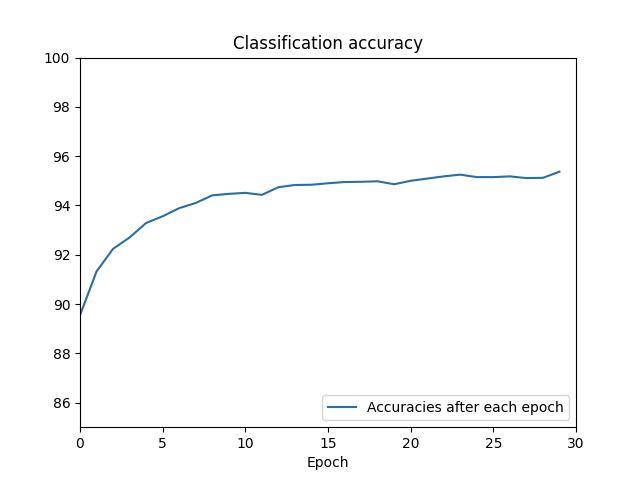
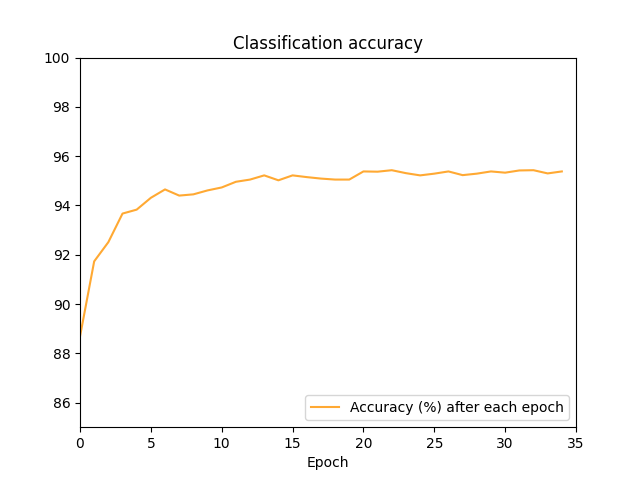
Centralise all hyperparameters toggling to hyperparameters.py, run, test and save networks with new hyperparameters

diff --git a/visualisation/network2/observe_early_stopping/early_stop.py b/visualisation/network2/observe_early_stopping/early_stop.py
@@ -13,26 +13,34 @@ import random
 import sys
 
 # My library
-sys.path.append('../../') # required if run_and_plot_network() were run in this script
+sys.path.append('../../../') # required if run_and_plot_network() were run in this script
 import mnist_loader
 import network_2
+from hyperparams import NUM_EPOCHS, LEARNING_RATE, LAYERS, REG_PARAM, MINI_BATCH_SIZE, EARLY_STOPPING
 
 # Third-party libraries
 import matplotlib.pyplot as plt
 import numpy as np
 
-# Constants
+
+# Customize Hyperparameters
+# By default, uses the values specified in the root folder hyperparams.py
 # Note you may wish to toggle display settings/scale
 # on the y-axis should the results go out of range
-NUM_EPOCHS = 30
-LEARNING_RATE = 0.5
-HIDDEN_LAYER = [30] # list of layers
-REG_PARAM = 5.0
-MINI_BATCH_SIZE = 10
+
+##NUM_EPOCHS = 30
+##LEARNING_RATE = 0.4
+## HIDDEN_LAYER = [30]
+##LAYERS = [784] + HIDDEN_LAYER + [10] # list of layers
+##REG_PARAM = 5.0
+##MINI_BATCH_SIZE = 10
+####EARLY_STOPPING = 5
+
+# To scale the accuracy to 100%
 PLOT_SCALE_FACTOR = None # equals to size of validation data
 
                        
-def plot_network_with_early_stopping(filename, early_stop=0):
+def plot_network_with_early_stopping(filename):
     """
     Train the network using both the default and the
     large starting weights.
@@ -54,14 +62,13 @@ def plot_network_with_early_stopping(filename, early_stop=0):
     # get size of validation_data. This will be used to approrpiately scale plot
     PLOT_SCALE_FACTOR = len(validation_data)
 
-    layers = [784] + HIDDEN_LAYER + [10]
-    network = network_2.Network(layers, cost=network_2.CrossEntropyCost)
+    network = network_2.Network(LAYERS, cost=network_2.CrossEntropyCost)
     print("~Train Network 2 using the default (scaled) starting weights~")
     eval_cost, eval_acc, trng_cost, trng_acc = network.SGD(training_data, NUM_EPOCHS, MINI_BATCH_SIZE,
                                                            LEARNING_RATE, reg_param=REG_PARAM,
                                                            eval_data=validation_data,
                                                            monitor_eval_acc=True,
-                                                           early_stopping=early_stop)
+                                                           early_stopping=EARLY_STOPPING)
     print(f"\nAccuracy on test set with early stopping implemented: {100.0 * network.accuracy(test_data)/len(test_data)}%")
     
     f = open(filename, "w")
@@ -92,5 +99,5 @@ def make_plot(filename):
     ax.set_title('Classification accuracy')
     plt.legend(loc="lower right")
     fig.canvas.set_window_title('network2_early_stop')
-    plt.show(block=False)
+    plt.show(block=True)
 

diff --git a/visualisation/network2/compare_initialization.py b/visualisation/network2/compare_initialization.py
@@ -22,20 +22,26 @@ import sys
 sys.path.append('../../') # required if compare() was run in this script
 import mnist_loader
 import network_2
+from hyperparams import NUM_EPOCHS, LEARNING_RATE, LAYERS, REG_PARAM, MINI_BATCH_SIZE
 
 # Third-party libraries
 import matplotlib.pyplot as plt
 import numpy as np
 
-# Constants
+# Customize Hyperparameters
+# By default, uses the values specified in the root folder hyperparams.py
 # Note you may wish to toggle display settings/scale
 # on the y-axis should the results go out of range
-NUM_EPOCHS = 30
-LEARNING_RATE = 0.4
-HIDDEN_LAYER = [30] # list of layers 
-REG_PARAM = 5.0
-MINI_BATCH_SIZE = 10
+##NUM_EPOCHS = 30
+##LEARNING_RATE = 0.4
+##HIDDEN_LAYER = [30]
+##LAYERS = [784] + HIDDEN_LAYER + [10] # list of layers
+##REG_PARAM = 5.0
+##MINI_BATCH_SIZE = 10
+
+# To scale the accuracy to 100%
 PLOT_SCALE_FACTOR = None # equals to size of validation data
+
 
 def compare(filename):
     run_network(filename)
@@ -63,9 +69,8 @@ def run_network(filename):
     # get size of validation_data. This will be used to approrpiately scale plot
     PLOT_SCALE_FACTOR = len(validation_data)
 
-    layers = [784] + HIDDEN_LAYER + [10]
-    network = network_2.Network(layers, cost=network_2.CrossEntropyCost)
-    print("~Train Network 2 using the default (scaled) starting weights~")
+    network = network_2.Network(LAYERS, cost=network_2.CrossEntropyCost)
+    print("~Train Network 2 with cross-entropy cost fn and regularization using the default (scaled) starting weights~")
     default_vc, default_va, default_tc, default_ta \
         = network.SGD(training_data, NUM_EPOCHS, MINI_BATCH_SIZE, LEARNING_RATE, reg_param=REG_PARAM,
                   eval_data=validation_data, 
@@ -74,7 +79,7 @@ def run_network(filename):
 
     # zip object has been unzipped and used so re-initialize
     # training_data, validation_data, test_data = mnist_loader.load_data_wrapper()
-    print("\n~Train Network 2 using the large (unscaled)/old starting weights~")
+    print("\n~Train Network 2 with cross-entropy cost fn and regularization using the large (unscaled)/old starting weights~")
     network.old_initializer()
     large_vc, large_va, large_tc, large_ta \
         = network.SGD(training_data, NUM_EPOCHS, MINI_BATCH_SIZE, LEARNING_RATE, reg_param=REG_PARAM,
@@ -117,5 +122,5 @@ def make_plot(filename):
     ax.set_title('Classification accuracy')
     plt.legend(loc="lower right")
     fig.canvas.set_window_title('network2_weightInitCompare')
-    plt.show(block=False)
+    plt.show(block=True)
 

diff --git a/visualisation/network1/view_learning.py b/visualisation/network1/view_learning.py
@@ -16,18 +16,23 @@ import sys
 sys.path.append('../../') # required if run_and_plot_network() were run in this script
 import mnist_loader
 import network
+from hyperparams import NUM_EPOCHS, LEARNING_RATE, LAYERS, REG_PARAM, MINI_BATCH_SIZE
 
 # Third-party libraries
 import matplotlib.pyplot as plt
 import numpy as np
 
-# Constants
+# Customize Hyperparameters
+# By default, uses the values specified in the root folder hyperparams.py
 # Note you may wish to toggle display settings/scale
 # on the y-axis should the results go out of range
-NUM_EPOCHS = 30
-LEARNING_RATE = 0.5
-HIDDEN_LAYER = [30] # list of layers 
-MINI_BATCH_SIZE = 10
+##NUM_EPOCHS = 30
+##LEARNING_RATE = 0.4
+##HIDDEN_LAYER = [30]
+##LAYERS = [784] + HIDDEN_LAYER + [10] # list of layers 
+##MINI_BATCH_SIZE = 10
+
+# To scale the accuracy to 100%
 PLOT_SCALE_FACTOR = None # equals to size of validation data
 
                        
@@ -53,8 +58,7 @@ def run_and_plot_network(filename):
     # get size of validation_data. This will be used to approrpiately scale plot
     PLOT_SCALE_FACTOR = len(validation_data)
 
-    layers = [784] + HIDDEN_LAYER + [10]
-    net = network.Network(layers)
+    net = network.Network(LAYERS)
     print("~Training Network 1~")
     validation_results = net.SGD(training_data, NUM_EPOCHS, MINI_BATCH_SIZE,
                                     LEARNING_RATE, validation_data=validation_data)
@@ -81,7 +85,7 @@ def make_plot(filename):
     validation_results = [100.0 * x/PLOT_SCALE_FACTOR for x in validation_results]
     fig = plt.figure()
     ax = fig.add_subplot(111)
-    ax.plot(np.arange(0, NUM_EPOCHS, 1), validation_results, color='#2A6EA6',
+    ax.plot(np.arange(0, NUM_EPOCHS, 1), validation_results, color='#FFA933',
             label="Accuracy (%) after each epoch")
     ax.set_xlim([0, NUM_EPOCHS])
     ax.set_xlabel('Epoch')
@@ -89,5 +93,5 @@ def make_plot(filename):
     ax.set_title('Classification accuracy')
     plt.legend(loc="lower right")
     fig.canvas.set_window_title('network1_accuracy')
-    plt.show(block=False)
+    plt.show(block=True)
 

diff --git a/visualise.py b/visualise.py
@@ -1,7 +1,16 @@
 import sys
 
+"""
+A program to visualise the effects of certain features/results of the neural network
 
-print("Note: Graphs will be concurrently displayed at the end of all the below execution.\nYou should only uncomment parts you'd like to observe.\n\n")
+NOTE:
+1. GRAPHS WILL BE CONCURRENTLY DISPLAYED AT THE END OF ALL THE EXECUTON. COMMENT OUT PARTS YOU DO NOT WISH TO OBSERVE TO SAVE TIME.
+2. Default hyperparameters are specified in the hyperparams.py file in the root folder.
+3. If you are running more than 1 network and wish to customize hyperparams for each network, uncomment the code that handles re-writing
+   hyperparameters in the respective program files in visualisation/ folder.
+"""
+
+
 FILENAME = "my_model_results"
 
 
@@ -26,12 +35,13 @@ path = path + FILENAME
 cmp_init.compare(path)
 print("Note: Accuracy results of trained model is saved at visualisation/network2/\n\n")
 
+
 """
-Network 2.0 Effects of Weight Initialization
+Network 2.0 Use of early stopping to identify suitable number of epochs
 """
 sys.path.append("./visualisation/network2/observe_early_stopping")
 import early_stop
 path = "./visualisation/network2/observe_early_stopping/"
 path = path + FILENAME
-early_stop.plot_network_with_early_stopping(path, early_stop = 6)
+early_stop.plot_network_with_early_stopping(path)
 print("Note: Accuracy results of trained model is saved at visualisation/network2/observe_early_stopping/\n\n")

diff --git a/hyperparams.py b/hyperparams.py
@@ -1,0 +1,9 @@
+# Hyperparams
+
+NUM_EPOCHS = 35
+LEARNING_RATE = 0.5
+HIDDEN_LAYER = [100, 30] # list of layers
+LAYERS = [784] + HIDDEN_LAYER + [10] # input layer -> hidden layers -> output layer (only 10 digits)
+REG_PARAM = 5.0
+MINI_BATCH_SIZE = 10
+EARLY_STOPPING = 5 # after seeing 5 epochs without improvement to best accuracy, halt and return
